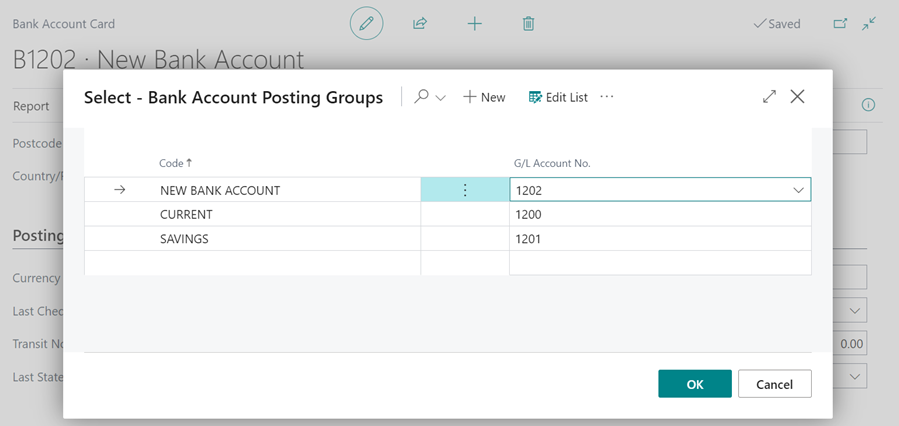
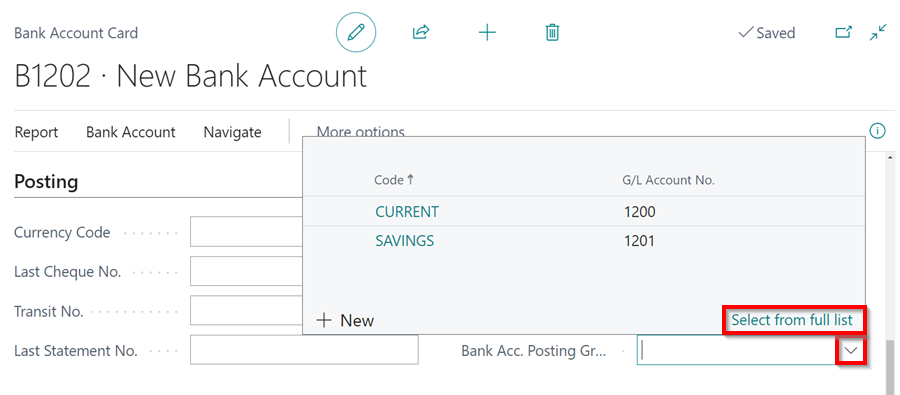
bank account update

diff --git a/docs/garagehive-create-new-bank-account.md b/docs/garagehive-create-new-bank-account.md
@@ -1,6 +1,6 @@
 ---
 layout: docs
-title: How to create Bank Accounts and Import Bank Statements
+title: How to create a Bank Account in Garage Hive
 ---
 
 <a name="top"></a>
@@ -8,120 +8,53 @@ title: How to create Bank Accounts and Import Bank Statements
 # We are still working on this article!
 We are currently reviewing this article before it is published, check back later.
 
-# How to create Bank Accounts and Import Bank Statements
-Creating bank accounts and importing bank statements in Garage Hive is important when it comes to financial management because they help you improve tracking and controlling financial transactions in the system. This process should be done in consultation with your accountant for further guidance.
+# How to create a Bank Account in Garage Hive
+Creating a bank account in a Garage Hive is important because it allows you to keep track of all your financial transactions and ensures that your records are accurate and up to date in the system. This process should be done in consultation with your accountant for further guidance. Here's how to do it:
 
-## In this article
-1. [Creating a Bank Account](#creating-a-bank-account)
-2. [Importing Bank Statements](#importing-bank-statements)
-
-
-### Creating a Bank Account
 1. In the top right corner, choose the ![](media/search_icon.png) icon, enter **Chart of Accounts**, and select the related link.
 
    ![](media/garagehive-search-chart-of-accounts.png)
 
-1. By default, your system should have the following bank accounts set up: 
+2. By default, your system should have the following bank accounts set up: 
    - **1200** – Bank Account
    - **1201** – Savings Account
-1. Select **New** from the menu bar.
+3. Select **New** from the menu bar.
 
    ![](media/garagehive-chart-of-accounts-default-banks.png)
 
-1. Enter the **No.** as the next sequential number from the previously created bank accounts, followed by the name of the new bank account. Set up the **General** FastTab as shown below. Take note that **Direct Posting** is disabled. Click the back arrow (&#8592;) to close the card after the setup.
+4. Enter the **No.** as the next sequential number from the previously created bank accounts, followed by the name of the new bank account. Set up the **General** FastTab as shown below. Take note that **Direct Posting** is disabled. Click the back arrow (&#8592;) to close the card after the setup.
 
    ![](media/garagehive-chart-of-accounts-bank-create.png)
 
-1. The next step is to search for **Bank Accounts** in the top right corner search ![](media/search_icon.png) icon, and select the related link.
+5. The next step is to search for **Bank Accounts** in the top right corner search ![](media/search_icon.png) icon, and select the related link.
 
    ![](media/garagehive-search-bank-accounts.png)
 
-1. Select **New** from the menu bar to add the newly created bank account.
+6. Select **New** from the menu bar to add the newly created bank account.
 
    ![](media/garagehive-bank-accounts-new.png)
 
-1. Enter the **No.** of the bank account beginning with **"B"**, followed by the code you created in the chart of accounts, for example **B1202**, and the bank account name. You can fill out the remaining fields if you want, but it is not required.
+7. Enter the **No.** of the bank account beginning with **"B"**, followed by the code you created in the chart of accounts, for example **B1202**, and the bank account name. You can fill out the remaining fields if you want, but it is not required.
 
    ![](media/garagehive-bank-accounts-new-details.png)
 
-1. Scroll down to the **Posting** FastTab, then click the down arrow (&#709;) in the **Bank Acc. Posting Group** field, then **select from the full list**. 
+8. Scroll down to the **Posting** FastTab, then click the down arrow (&#709;) in the **Bank Acc. Posting Group** field, then **select from the full list**. 
 
    ![](media/garagehive-bank-accounts-posting-group-select.png)
 
-1. In the **Bank Account Posting Groups** page, select **New**, enter the name of the bank in the **Code** field, and use the code you created in the chart of accounts as the **G/L Account No.**. Click the **OK**.
+9. In the **Bank Account Posting Groups** page, select **New**, enter the name of the bank in the **Code** field, and use the code you created in the chart of accounts as the **G/L Account No.**. Click **OK**.
 
    ![](media/garagehive-bank-accounts-posting-group-created.png)
 
-1. Confirm that the **Posting Group** selected is correct for the bank account. Click the back arrow (&#8592;) to close bank account card.
+10. Confirm that the **Posting Group** selected is correct for the bank account. Click the back arrow (&#8592;) to close bank account card.
 
    ![](media/garagehive-bank-accounts-posting-group-check.png)
 
-1. The bank account will now be created and ready for use.
+11. The bank account will now be created and ready for use.
 
 {% include tip.html title="Note" text="If you intend to make payments directly into or out of this bank account, you should set up additional payment methods." %}
 
 [Go back to top](#top)
-
-### Importing Bank Statements
-To import bank statements in Garage Hive:
-1. In the top right corner, choose the ![](media/search_icon.png) icon, enter **Bank Account Reconciliations**, and select the related link.
-
-   ![](media/garagehive-bank-statements-import1.png)
-
-1. Select **New** from the menu bar.
-
-   ![](media/garagehive-bank-statements-import2.png)
-
-1. In the **Bank Account No.** select the relevant bank account. The bank account ledger entries that exist on the bank account appear in the **Bank Account Ledger Entries** pane.
-1. In the **Statement Date** field, enter the date of the statement from the bank.
-1. In the **Balance Last Statement** field, enter the balance of the last statement used in the posted bank reconciliation for the selected bank account. If this is your first time importing the statement, leave this field blank.
-1. In the **Statement Ending Balance** field, enter the balance of the statement from the bank.
-
-   ![](media/garagehive-bank-statements-import3.png)
-
-1. Select **Bank** from the menu bar, followed by the **Import Bank Statement** action.
-
-   ![](media/garagehive-bank-statements-import4.png)
-
-1. Locate the file, and then choose the Open button to import the bank transactions into the **Bank Statement Lines** pane on the **Bank Acc. Reconciliation** page.
-
-   ![](media/garagehive-bank-statements-import5.png)
-
-1. To match bank statement lines with bank account ledger entries automatically, select **Matching** from the menu bar and choose **Match Automatically**. The **Match Bank Entries** page opens.
-
-   ![](media/garagehive-bank-statements-import6.png)
-
-1. In the **Transaction Date Tolerance (Days)** field, specify the span of days before and after the bank account ledger entry posting date within which the action will search for matching transaction dates in the bank statement.
-1. If you enter 0 or leave the field blank, the **Match Automatically** action will only search for matching transaction dates on the bank account ledger entry posting date. Click **OK**.
-
-   ![](media/garagehive-bank-statements-import7.png)
-
-1. You'll get a notification on how many lines have been matched. The matched lines turn to bold green font. Bank account ledger entries that are matched on other bank reconciliations are shown in italic blue font.
-1. To remove a match, select the bank statement line, select **Matching** from the menu bar, and then **Remove Match** action.
-
-   ![](media/garagehive-bank-statements-import8.png)
-
-1. To match bank statement lines with bank account ledger entries manually, select a non-applied line in the **Bank Statement Lines** pane.
-1. In the **Bank Account Ledger Entries** pane, select one or more banks account ledger entries that can be matched with the selected bank statement line. To choose multiple lines, select and hold the **CTRL** key and then choose the lines.
-
-   ![](media/garagehive-bank-statements-import9.png)
-
-1. Select **Matching** from the menu bar, and choose the **Match Manually** action. The selected bank statement line and the selected bank account ledger entries change to green font, and the Applied checkbox in the right pane is selected.
-
-   ![](media/garagehive-bank-statements-import10.png)
-
-1. Repeat steps 1 through 3 for all bank statement lines that aren't matched.
-1. To double-check your bank account reconciliation before you post it, select **Posting**, and choose the **Test Report** action to preview the reconciliation.
-
-   ![](media/garagehive-bank-statements-import11.png)
-
-1. After confirming, select **Posting**, followed by **Post** to post the bank reconciliation.
-
-   ![](media/garagehive-bank-statements-import12.png)
-
-[Go back to top](#top)
-
-
 
 
 

diff --git a/docs/garagehive-chart-of-accounts.md b/docs/garagehive-chart-of-accounts.md
@@ -63,14 +63,7 @@ The income statement and balance sheet are two important company financial repor
 
       ![](media/garagehive-chart-of-accounts-general-ledger4.png)
 
-
-5. On the **Consolidation** FastTab, you can enter the debit and credit account of the consolidation company to map with.
-6. On the **Reporting** FastTab, you can specify if you want to process exchange rate adjustments between the local currency and the additional reporting currency for this account.
-7. The **Cost Accounting** FastTab shows the cost type the G/L account is mapped to.
-8. For this example, you don't need to enter the **Consolidation**, **Reporting**, and **Cost Accounting** FastTabs.
-
-   ![](media/garagehive-chart-of-accounts-general-ledger5.png)
-
+5. Once this is completed, the G/L account is ready for use and entries can be posted into it.
 
 [Go back to top](#top)
 
